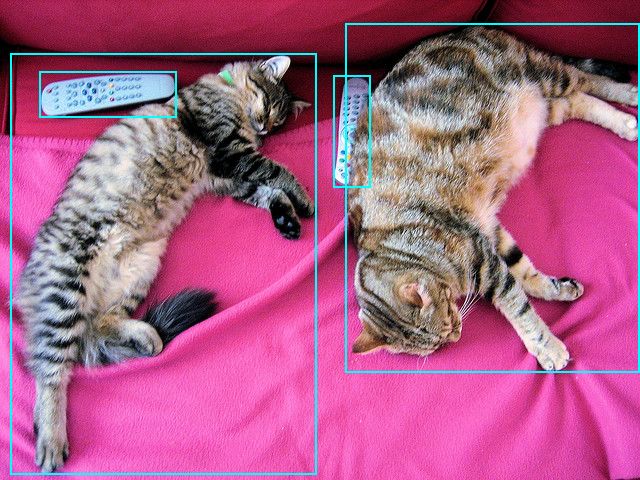
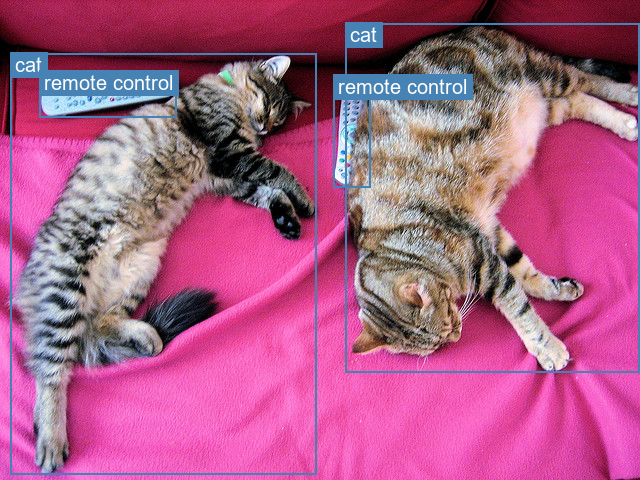
update example to display prediction labels

diff --git a/20250428-huggingface-grounding-dino/example.py b/20250428-huggingface-grounding-dino/example.py
@@ -7,7 +7,7 @@ My code performs inference using Grounding DINO.
 It then draws the bounding boxes on the image and save it.
 """
 from typing import List
-from PIL import Image
+from PIL import Image, ImageFont
 from PIL.ImageDraw import Draw
 import requests
 import torch
@@ -68,15 +68,20 @@ if __name__ == '__main__':
         ).raw
     )
     draw = Draw(image)
+    font = ImageFont.truetype('arial.ttf', size=20)
     pred = engine(image, ['cat', 'remote control'])
-    for box, _, _ in zip(*pred):
+    for box, _, label in zip(*pred):
         box = box.cpu().long().tolist()
+        draw.rectangle(box, outline='steelblue', width=2)
+
+        # text can be hard to see so draw it on top of a colored box
+        text_box = draw.textbbox([box[0] + 5, box[1]], label, font=font)
         draw.rectangle(
-            xy=[
-                (box[0], box[1]),
-                (box[2], box[3])
-            ],
-            outline='cyan',
-            width=2
+            (
+                text_box[0] - 5, text_box[1] - 5,
+                text_box[2] + 5, text_box[3] + 5
+            ),
+            fill='steelblue'
         )
+        draw.text((box[0] + 5, box[1]), label, align='center', font=font)
     image.save('example-image.png')
